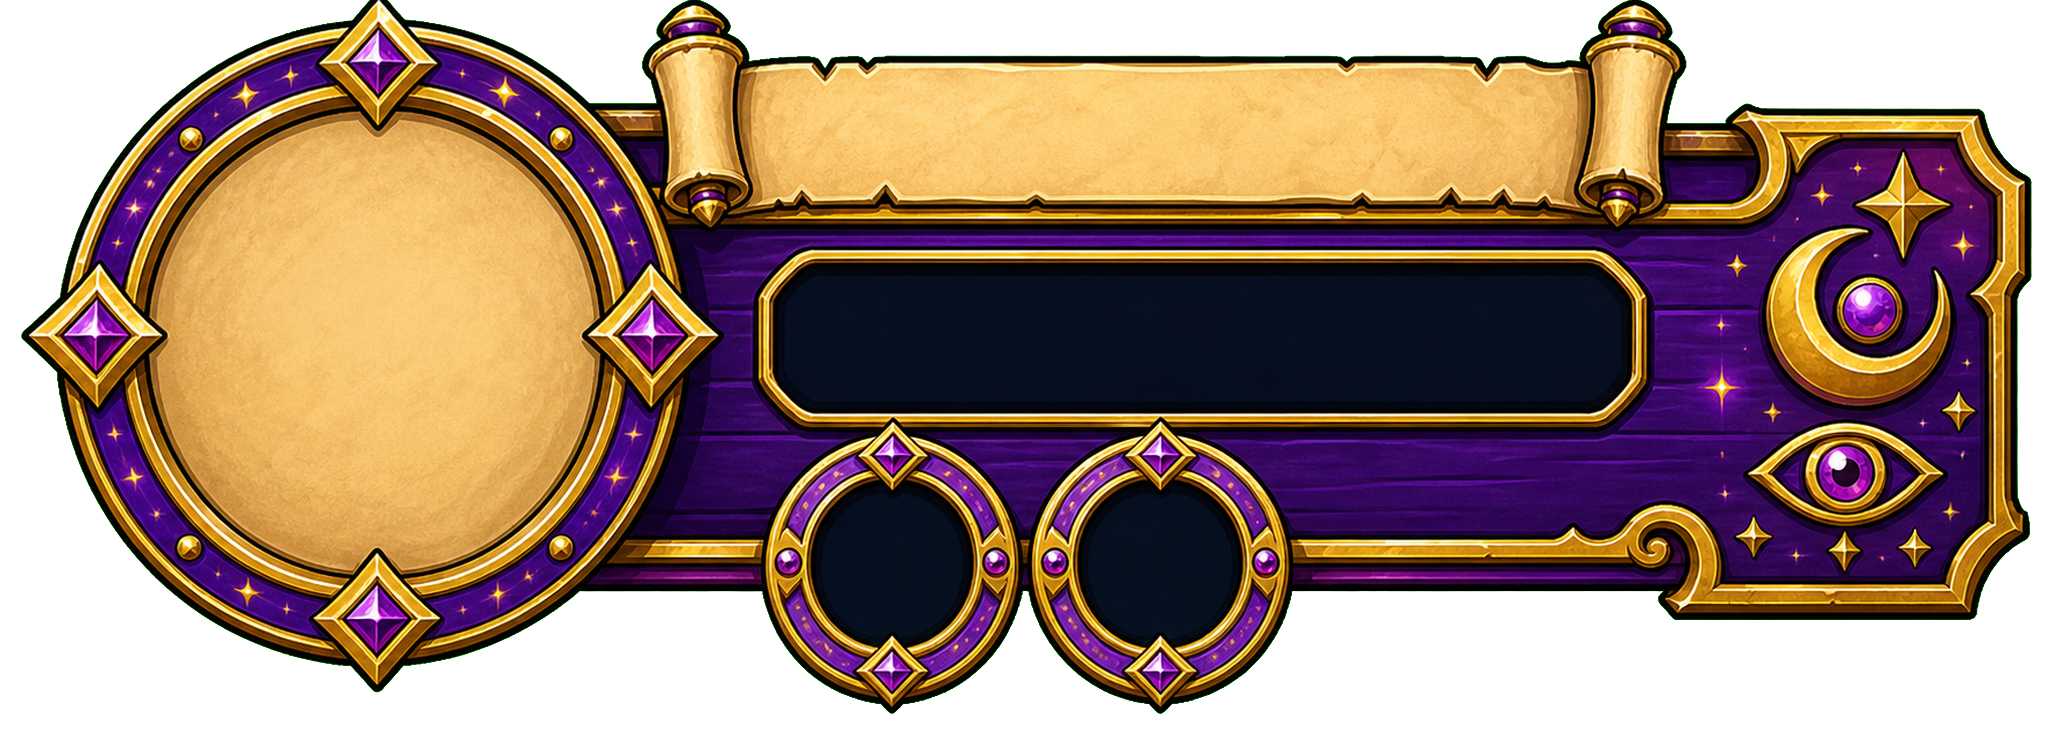
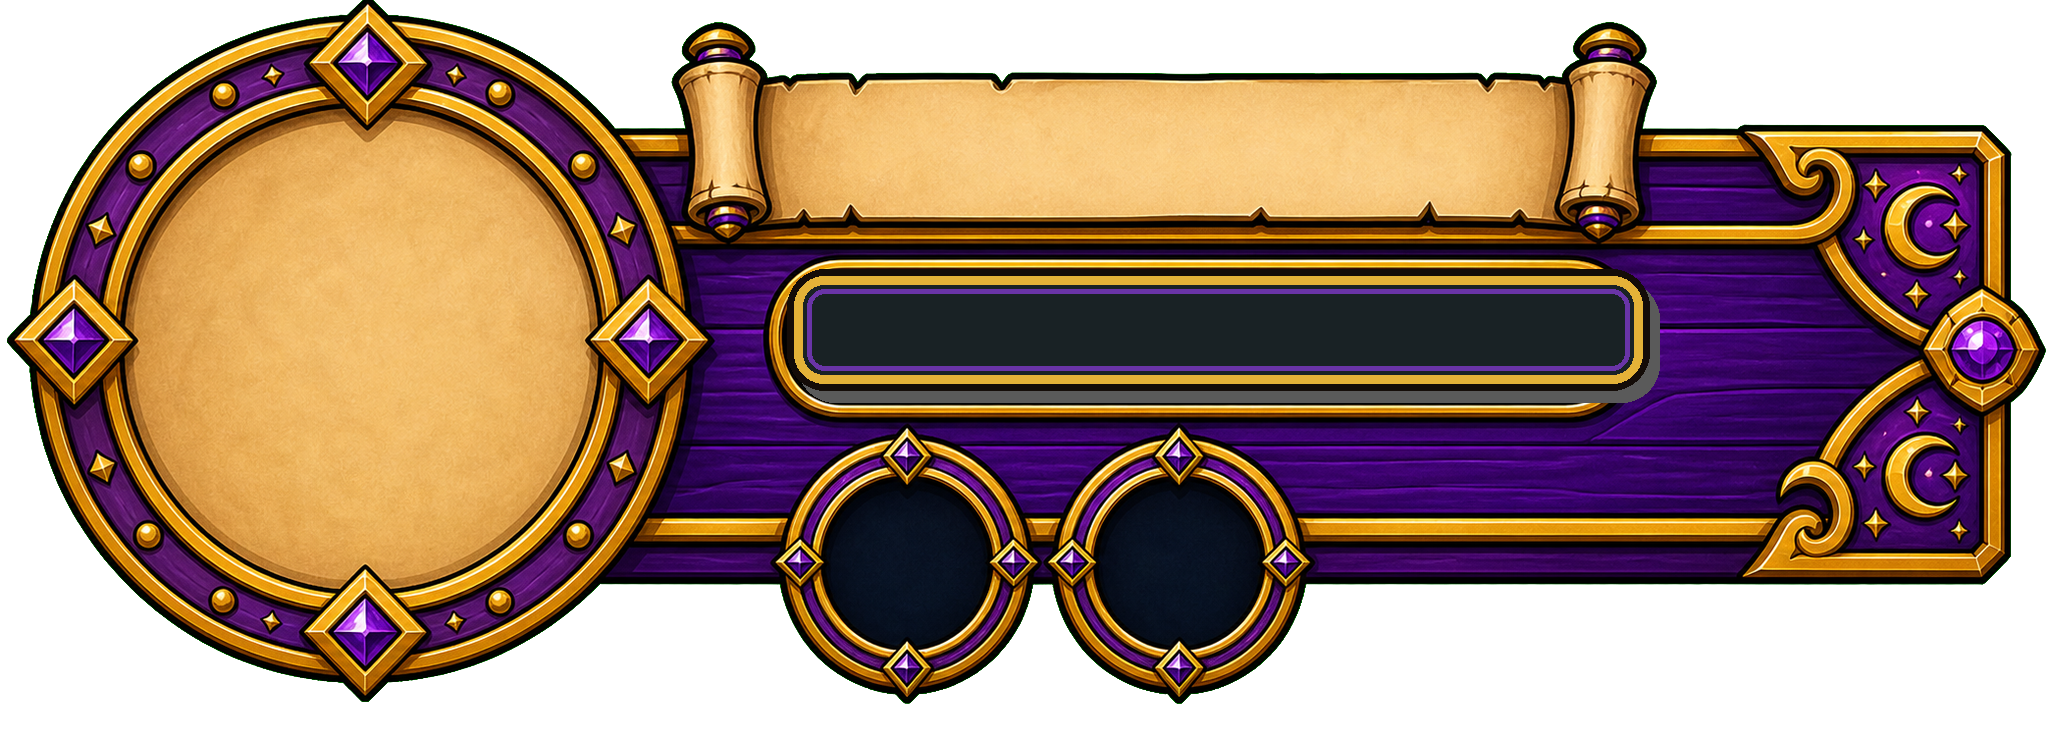
aaa

diff --git a/scripts/install_ai_cluster_assets.py b/scripts/install_ai_cluster_assets.py
@@ -7,15 +7,14 @@ OUT = ROOT / "assets" / "img"
 GEN = Path(r"C:\Users\Victor Franco\.codex\generated_images\019f10b1-7919-77a2-8061-f27fec20be13")
 
 ASSETS = [
-    ("cluster_cavaleiro_guardareal.webp", "ig_0c8094ed476e3fd4016a436e9af34c8191b86e730035fdaefa.png"),
-    ("cluster_mago_chamaarcana.webp", "ig_0c8094ed476e3fd4016a436ef7cce08191ad82a0df77fe5ef7.png"),
-    ("cluster_arqueiro_sentinelaverde.webp", "ig_0c8094ed476e3fd4016a436f54ff488191992b20f75530e479.png"),
-    ("cluster_ladino_maodourada.webp", "ig_0c8094ed476e3fd4016a436fa1aa648191a7bbd15a607a81be.png"),
-    ("cluster_oraculo_visaoastral.webp", "ig_0c8094ed476e3fd4016a437006040881919daf50a5c14a910a.png"),
+    ("cluster_cavaleiro_guardareal.webp", "ig_06b0d5b496bc2f85016a43728540c08191892046e8b183e5ce.png", (24, 89, 190)),
+    ("cluster_mago_chamaarcana.webp", "ig_06b0d5b496bc2f85016a4372d2a0cc81919dde653b87cff7a2.png", (184, 35, 30)),
+    ("cluster_arqueiro_sentinelaverde.webp", "ig_06b0d5b496bc2f85016a4373141ca081919793b6028c5b254d.png", (40, 142, 55)),
+    ("cluster_ladino_maodourada.webp", "ig_06b0d5b496bc2f85016a43735b70bc81919908427aba2fd92f.png", (54, 48, 43)),
+    ("cluster_oraculo_visaoastral.webp", "ig_06b0d5b496bc2f85016a4373b37a2481918fde7aedb29abee2.png", (92, 35, 160)),
 ]
 
 W, H = 2048, 739
-CROP_TOP = 142
 HUD = {
     "level": (354, 386, 136),
     "name": (554, 65, 1716, 165),
@@ -56,10 +55,27 @@ def remove_key(img):
 
 def prepare(src):
     img = Image.open(src).convert("RGBA")
-    if img.size != (2048, 1024):
-        img = img.resize((2048, 1024), Image.Resampling.LANCZOS)
-    cropped = img.crop((0, CROP_TOP, W, CROP_TOP + H))
-    return remove_key(cropped)
+    if img.size != (W, H):
+        img = img.resize((W, H), Image.Resampling.LANCZOS)
+    return remove_key(img)
+
+
+def draw_fixed_hp_socket(img, accent):
+    x1, y1, x2, y2 = HUD["hp"]
+    d = ImageDraw.Draw(img, "RGBA")
+    gold = (228, 178, 56, 255)
+    dark = (13, 22, 25, 242)
+    shadow = (0, 0, 0, 165)
+    x1 += 12
+    y1 += 12
+    x2 -= 12
+    y2 -= 12
+    radius = 38
+    d.rounded_rectangle((x1 + 10, y1 + 12, x2 + 10, y2 + 12), radius=radius, fill=shadow)
+    d.rounded_rectangle((x1, y1, x2, y2), radius=radius, fill=dark, outline=(20, 12, 8, 255), width=15)
+    d.rounded_rectangle((x1 + 7, y1 + 7, x2 - 7, y2 - 7), radius=radius - 8, outline=gold, width=9)
+    d.rounded_rectangle((x1 + 20, y1 + 20, x2 - 20, y2 - 20), radius=radius - 20, outline=(*accent, 235), width=5)
+    return img
 
 
 def make_audit(images):
@@ -86,8 +102,9 @@ def make_audit(images):
 
 def main():
     processed = []
-    for out_name, src_name in ASSETS:
+    for out_name, src_name, accent in ASSETS:
         img = prepare(GEN / src_name)
+        img = draw_fixed_hp_socket(img, accent)
         img.save(OUT / out_name, "WEBP", lossless=True, quality=100, method=6)
         processed.append((out_name, img))
     make_audit(processed).save(OUT / "cluster_alignment_audit.png")
